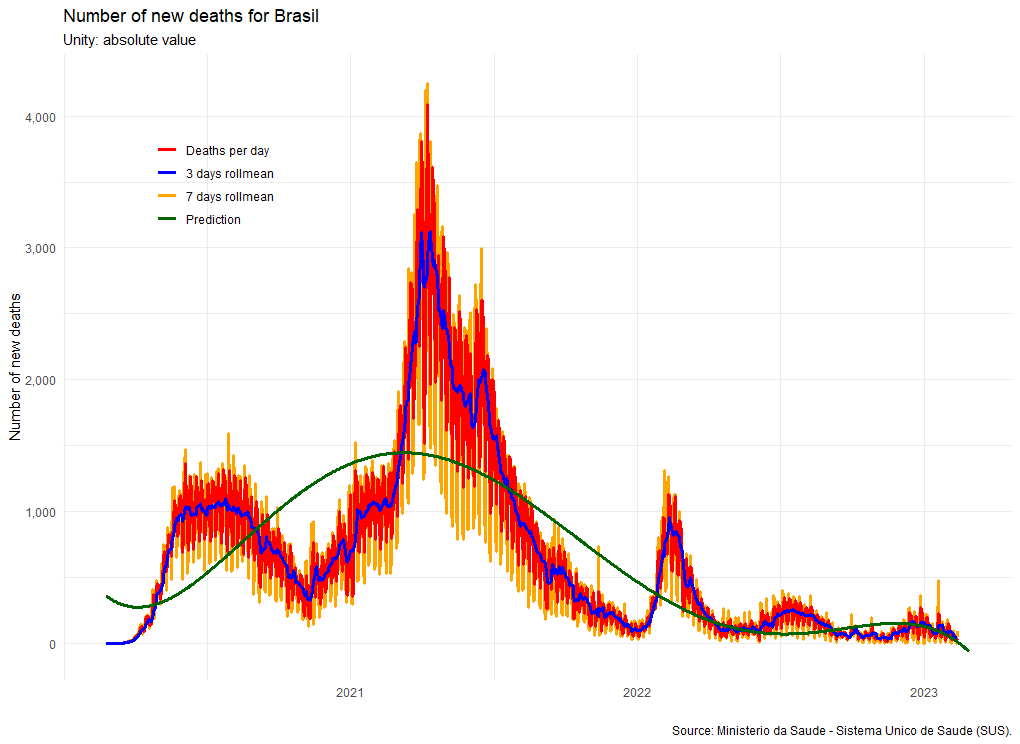
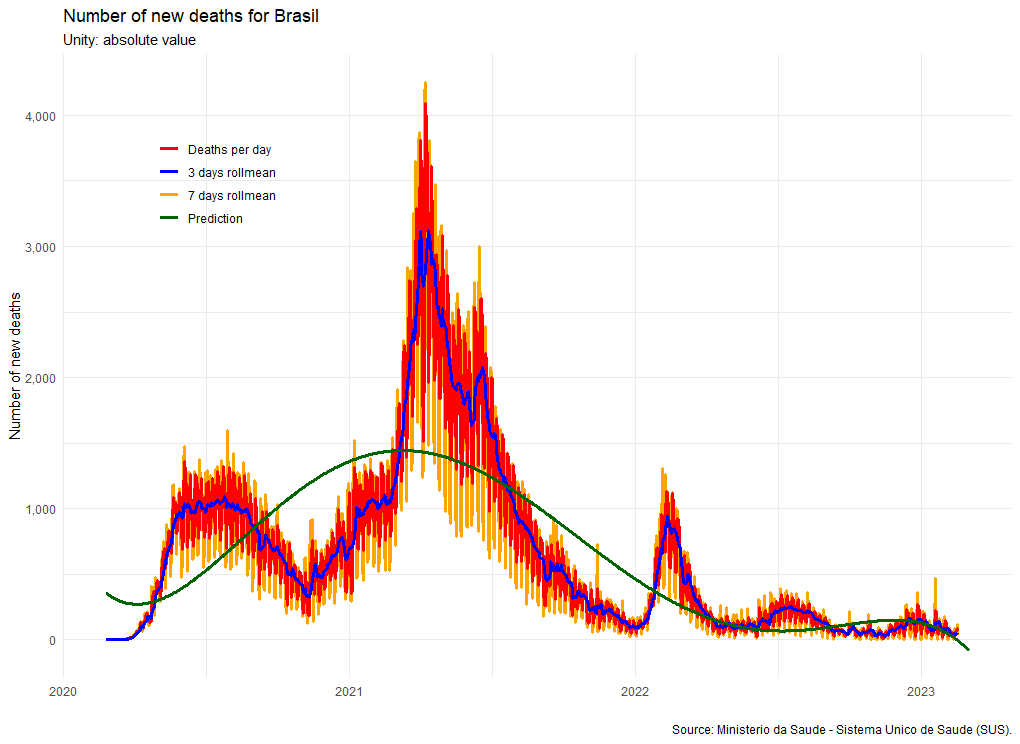
Update README file

diff --git a/README.md b/README.md
@@ -232,7 +232,7 @@ cases, respectively, for Brazil and for the municipality of Sao Joao del
 Rey (belonging to the state of Minas Gerais), a 3-day moving average, a
 7-day moving average and the forecast, obtained by polynomial
 interpolation of degree 5, covering the entire period plus 15 days (last
-day of observed data is 2023-02-13).
+day of observed data is 2023-02-17).
 
 <img src="man/figures/predCases.png" width="100%" />  
 
@@ -267,7 +267,7 @@ caused by Covid-19, respectively, for Brazil and for the municipality of
 Sao Joao del Rey (belonging to the state of Minas Gerais), a 3-day
 moving average, a 7-day moving average and the forecast, obtained by
 polynomial interpolation of degree 5, covering the entire period plus 15
-days (last day of observed data is 2023-02-13).
+days (last day of observed data is 2023-02-17).
 
 <img src="man/figures/predDeaths.png" width="100%" />  
 
